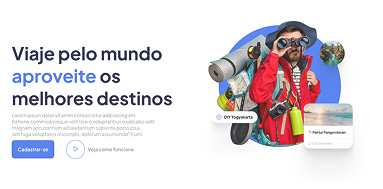
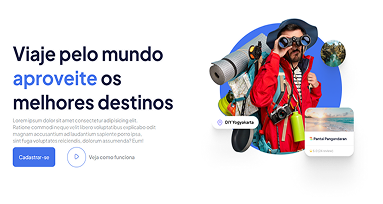
finalizando responsividade mobile - 2025-03-18

Changed region(s): [[0.5457, 0.0794, 0.9478, 0.7937], [0.0287, 0.2116, 0.4595, 0.5556], [0.0287, 0.582, 0.4308, 0.8466]]

diff --git a/index.html b/index.html
@@ -65,7 +65,7 @@
 
             <div id="imagemDesenvolvedor">
                 <!-- imagem desktop -->
-                <img id="imagemDesktop" src="assets/img/imgDesenvolvedor.png" alt="imagem de Lucas Ferreira, desenvolvedor do projeto">
+                <img id="imagemDesktop" src="assets/img/imagemDesenvolvedor.png" alt="imagem de Lucas Ferreira, desenvolvedor do projeto">
                 
                 <!-- imagem mobile/tablet -->
                 <div class="imagemTabletMobile">
@@ -90,13 +90,6 @@
                     Hoje, com <span style="font-family: 'DMSans';">19</span> anos, busco a cada dia melhorar minhas habilidades como <span class="caracterEspecial">desenvolvedor frontend</span>, visando ampliar meu conhecimento e conseguir minha primeira vaga nesse vasto mercado.
                 </p>
             </div> <!-- fim div desenvolvedor -->
-
-            <div class="numeracaoPagina">
-                <div class="quadrado" id="numero01"> 01</div>
-                <div class="quadrado" id="numero02"> 02</div>
-                <div class="quadrado" id="numero03"> 03</div>
-                <div class="quadrado" id="numero04"> 04</div>
-            </div>
 
         </div> <!-- final da div #secao01-->
 
@@ -216,13 +209,6 @@
                 </p>
             </div>
 
-            <div class="numeracaoPagina">
-                <div class="quadrado" id="numero01"> 01</div>
-                <div class="quadrado" id="numero02"> 02</div>
-                <div class="quadrado" id="numero03"> 03</div>
-                <div class="quadrado" id="numero04"> 04</div>
-            </div>
-
         </div> <!-- final da div #secao02-->
 
         <div class="medida" id="secao03"> <!-- inicio da div #secao03-->
@@ -231,8 +217,9 @@
 
                 <div class="projetos">
                     <div class="imagemProjeto">
+                        <img src="assets/img/nubankIMG.png" alt="">
                     </div>
-                    <h2 class="tituloProjeto">Molde Nubank</h2>
+                    <h2 class="tituloProjeto">Nubank</h2>
                     <p class="descricaoProjeto">
                         Esse projeto replica a estrutura do aplicativo Nubank utilizando as tecnologias HTML, CSS e poucas linhas de JQuery. Sendo desenvolvido com o intuito de trabalhar a responsividade e o conceito de div's, o projeto Nubank foi iniciado e finalizado em <span class="fontePrincipal">2025</span>.
                     </p>
@@ -242,7 +229,7 @@
 
                 <div class="projetos">
                     <div class="imagemProjeto">
-                        <img src="" alt="">
+                        <img src="assets/img/destinizeIMG.png" alt="">
                     </div>
                     <h2 class="tituloProjeto">Destinize</h2>
                     <p class="descricaoProjeto">
@@ -250,14 +237,17 @@
                         direcionado para viagens. Esse projeto foi finalizado em <span class="fontePrincipal">2024</span>, sendo desenvolvido de forma responsiva com as tecnologias<br>
                         HTML e CSS.
                     </p>
-
                     <button class="botaoProjeto">ver projeto</button>
                     <button class="botaoProjeto">ver repositório</button>
                 </div>
 
                 <div class="projetos">
-                    <div class="imagemProjeto"></div>
-                    <h2 class="tituloProjeto"></h2>
+                    <div class="imagemProjeto">
+                        <img src="assets/img/portfolioIMG.png" alt="">
+                    </div>
+                    <h2 class="tituloProjeto">
+                        Portfólio
+                    </h2>
                     <p class="descricaoProjeto"></p>
                     <button class="botaoProjeto">ver projeto</button>
                     <button class="botaoProjeto">ver repositório</button>
@@ -285,13 +275,6 @@
                 quanto por curiosidade e estudos.
             </p>
 
-            <div class="numeracaoPagina">
-                <div class="quadrado" id="numero01"> 01 </div>
-                <div class="quadrado" id="numero02"> 02 </div>
-                <div class="quadrado" id="numero03"> 03 </div>
-                <div class="quadrado" id="numero04"> 04 </div>
-            </div>
-
         </div> <!-- fim da div #secao03-->
 
         <div class="medida" id="secao04"> <!-- inicio da div #secao04-->
@@ -311,12 +294,6 @@
                 </button>
             </div>
 
-            <div class="numeracaoPagina">
-                <div class="quadrado" id="numero01"> 01</div>
-                <div class="quadrado" id="numero02"> 02</div>
-                <div class="quadrado" id="numero03"> 03</div>
-                <div class="quadrado" id="numero04"> 04</div>
-            </div>
         </div> <!-- final da div #secao04-->
 
     </main> <!-- fim da tag main-->

diff --git a/css/secao03.css b/css/secao03.css
@@ -12,7 +12,7 @@
 
 .funcoes{
     width: 100%;
-    height: 450px;
+    height: 600px;
     display: flex;
     overflow-x: auto ;
     margin-top: 50px;
@@ -23,8 +23,8 @@
 }
 
 .projetos{
-    min-width: 300px;
-    max-height: 450px;
+    min-width: 255px;
+    max-height: 460px;
     padding: 10px;
     background-color: #fff;
     border: 2px solid #00000041;
@@ -36,7 +36,7 @@
 
 .imagemProjeto{
     width: 100%;
-    height: 40%;
+    height: 30%;
     display: flex;
     align-items: center;
     justify-content: center;
@@ -48,7 +48,7 @@
 }
 
 .tituloProjeto{
-    margin-top: 10px;
+    margin-top: 20px;
     font-family: var(--fontePrincipal);
 }
 
@@ -57,6 +57,7 @@
     font-size: 0.9rem;
     width: 100%;
     height: 35%;
+    margin-top: 20px;
 }
 
 .fontePrincipal{
@@ -78,7 +79,5 @@
     font-family: var(--fonteSecundaria);
     font-size: 0.9rem;
     width: 80%;
-    border: 1px solid red;
-    text-align: center;
     font-weight: 800;
 }

diff --git a/style.css b/style.css
@@ -178,8 +178,22 @@
         border: 1px solid var(--cor02);
         background-color: transparent;
     }
+    /* estilo darkMobile -> projetos */
+    body.darkMobile .projetos{
+        background-color: var(--corModoDark);
+        border: 2px solid var(--cor02);
+    }
+    
+    body.darkMobile .tituloProjeto{
+        color: #fff;
+    }
+    
+    body.darkMobile .botaoProjeto{
+        background-color: var(--cor02);
+    }
 
     /* estilo darkMobile -> footer */
+    
     body.darkMobile #rodapeProjeto{
         border: 1px solid var(--cor02);
     } 
@@ -230,7 +244,7 @@
         height: 350px;
         z-index: 100;
         background-size: cover;
-        background-image: url(assets/img/img_perfilMobile.png);
+        background-image: url(assets/img/imagemPerfilMobile.png);
     }
 
     .redesMobile{

diff --git a/css/components.css b/css/components.css
@@ -19,27 +19,3 @@
 }
 
 html { scroll-behavior: smooth; }
-
-.numeracaoPagina{
-    width: 30%;
-    height: 100px;
-    display: flex;
-    margin-left: 80px;
-    align-items: center;
-    justify-content: space-evenly;
-}
-
-.quadrado{
-    width: 60px;
-    height: 60px;
-    display: flex;
-    color: #858484;
-    font-weight: 700;
-    margin-left: 10px;
-    font-size: 1.5rem;
-    border-radius: 100%;
-    align-items: center;
-    justify-content: center;
-    border: 2px solid #858484;
-    font-family: var(--fontePrincipal);
-}

diff --git a/css/header.css b/css/header.css
@@ -112,11 +112,23 @@ body.dark .tecnologias{
     color: var(--corModoDark);
 }
 
-
 body.dark #imagemDesenvolvedor img{
     border: 4px solid var(--cor02);
 }
+/* estilo dark -> projetos */
 
+body.dark .projetos{
+    background-color: var(--corModoDark);
+    border: 2px solid var(--cor02);
+}
+
+body.dark .tituloProjeto{
+    color: #fff;
+}
+
+body.dark .botaoProjeto{
+    background-color: var(--cor02);
+}
 
 /* estilo dark -> redes */
 

diff --git a/README.md b/README.md
@@ -35,3 +35,8 @@ Neste projeto, está listado as tecnologias que utilizo ou estou estudando no mo
     src="https://cdn.jsdelivr.net/gh/devicons/devicon@latest/icons/javascript/javascript-original.svg" 
 />
 
+## Veja meu portfólio
+
+Você pode visualizar esse projeto acessando o seguinte link:
+
+
